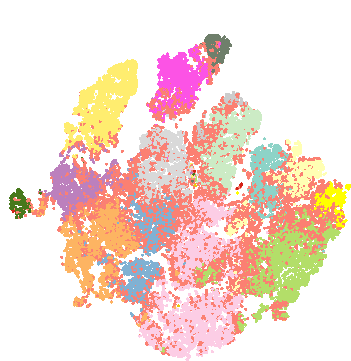
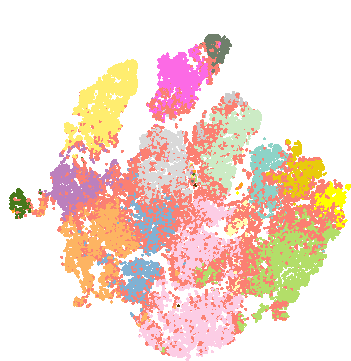
Change color scale to a proper state

Changed region(s): [[0.7692, 0.3657, 0.9402, 0.5485], [0.7407, 0.4571, 0.7692, 0.4875], [0.6838, 0.4875, 0.7123, 0.518]]

diff --git a/myapp/public/js/options.js b/myapp/public/js/options.js
@@ -17,7 +17,7 @@ var op = (function () {
 
     var labelColorScale = d3
         .scaleOrdinal()
-        .domain([-1, 0, 1, 2, 3, 4, 5, 6, 7, 8, 9, 10, 11,12,13,14,15,16,17,18])
+        .domain([-1, 0, 1, 2, 3, 4, 5, 6, 7, 8, 9, 10, 11,12,13,14,15,16,17])
         .range([
             "#fb8072",//-1
             "#80b1d3",//0
@@ -32,13 +32,12 @@ var op = (function () {
             "#ffffb3",
             "#FFFF00",//10
             "#CCCCCC",
-            "#ffffb3",
-            "#FC53E5",
+            "#E8CB0C",
+            "#FC6AE5",
             "#47781C",
             "#6F7F6B",//15
-            "#D32318",
-            "#E8CB0C",
-            "#4B3700",//18
+            "#FDA318",//16
+            "#4B3700",//17
         ]);
     //style
     var minArtLineWidth = 2,

diff --git a/myapp/public/js/mapView.js b/myapp/public/js/mapView.js
@@ -237,6 +237,7 @@ function load(
       }
       download_sprite_as_png(renderer, stage, 'a.png');
     }
+   // downloadPng();
 
     $("#linesNumberBeforeSample").text(
       "Original Flow Count:" + scatterData.length
